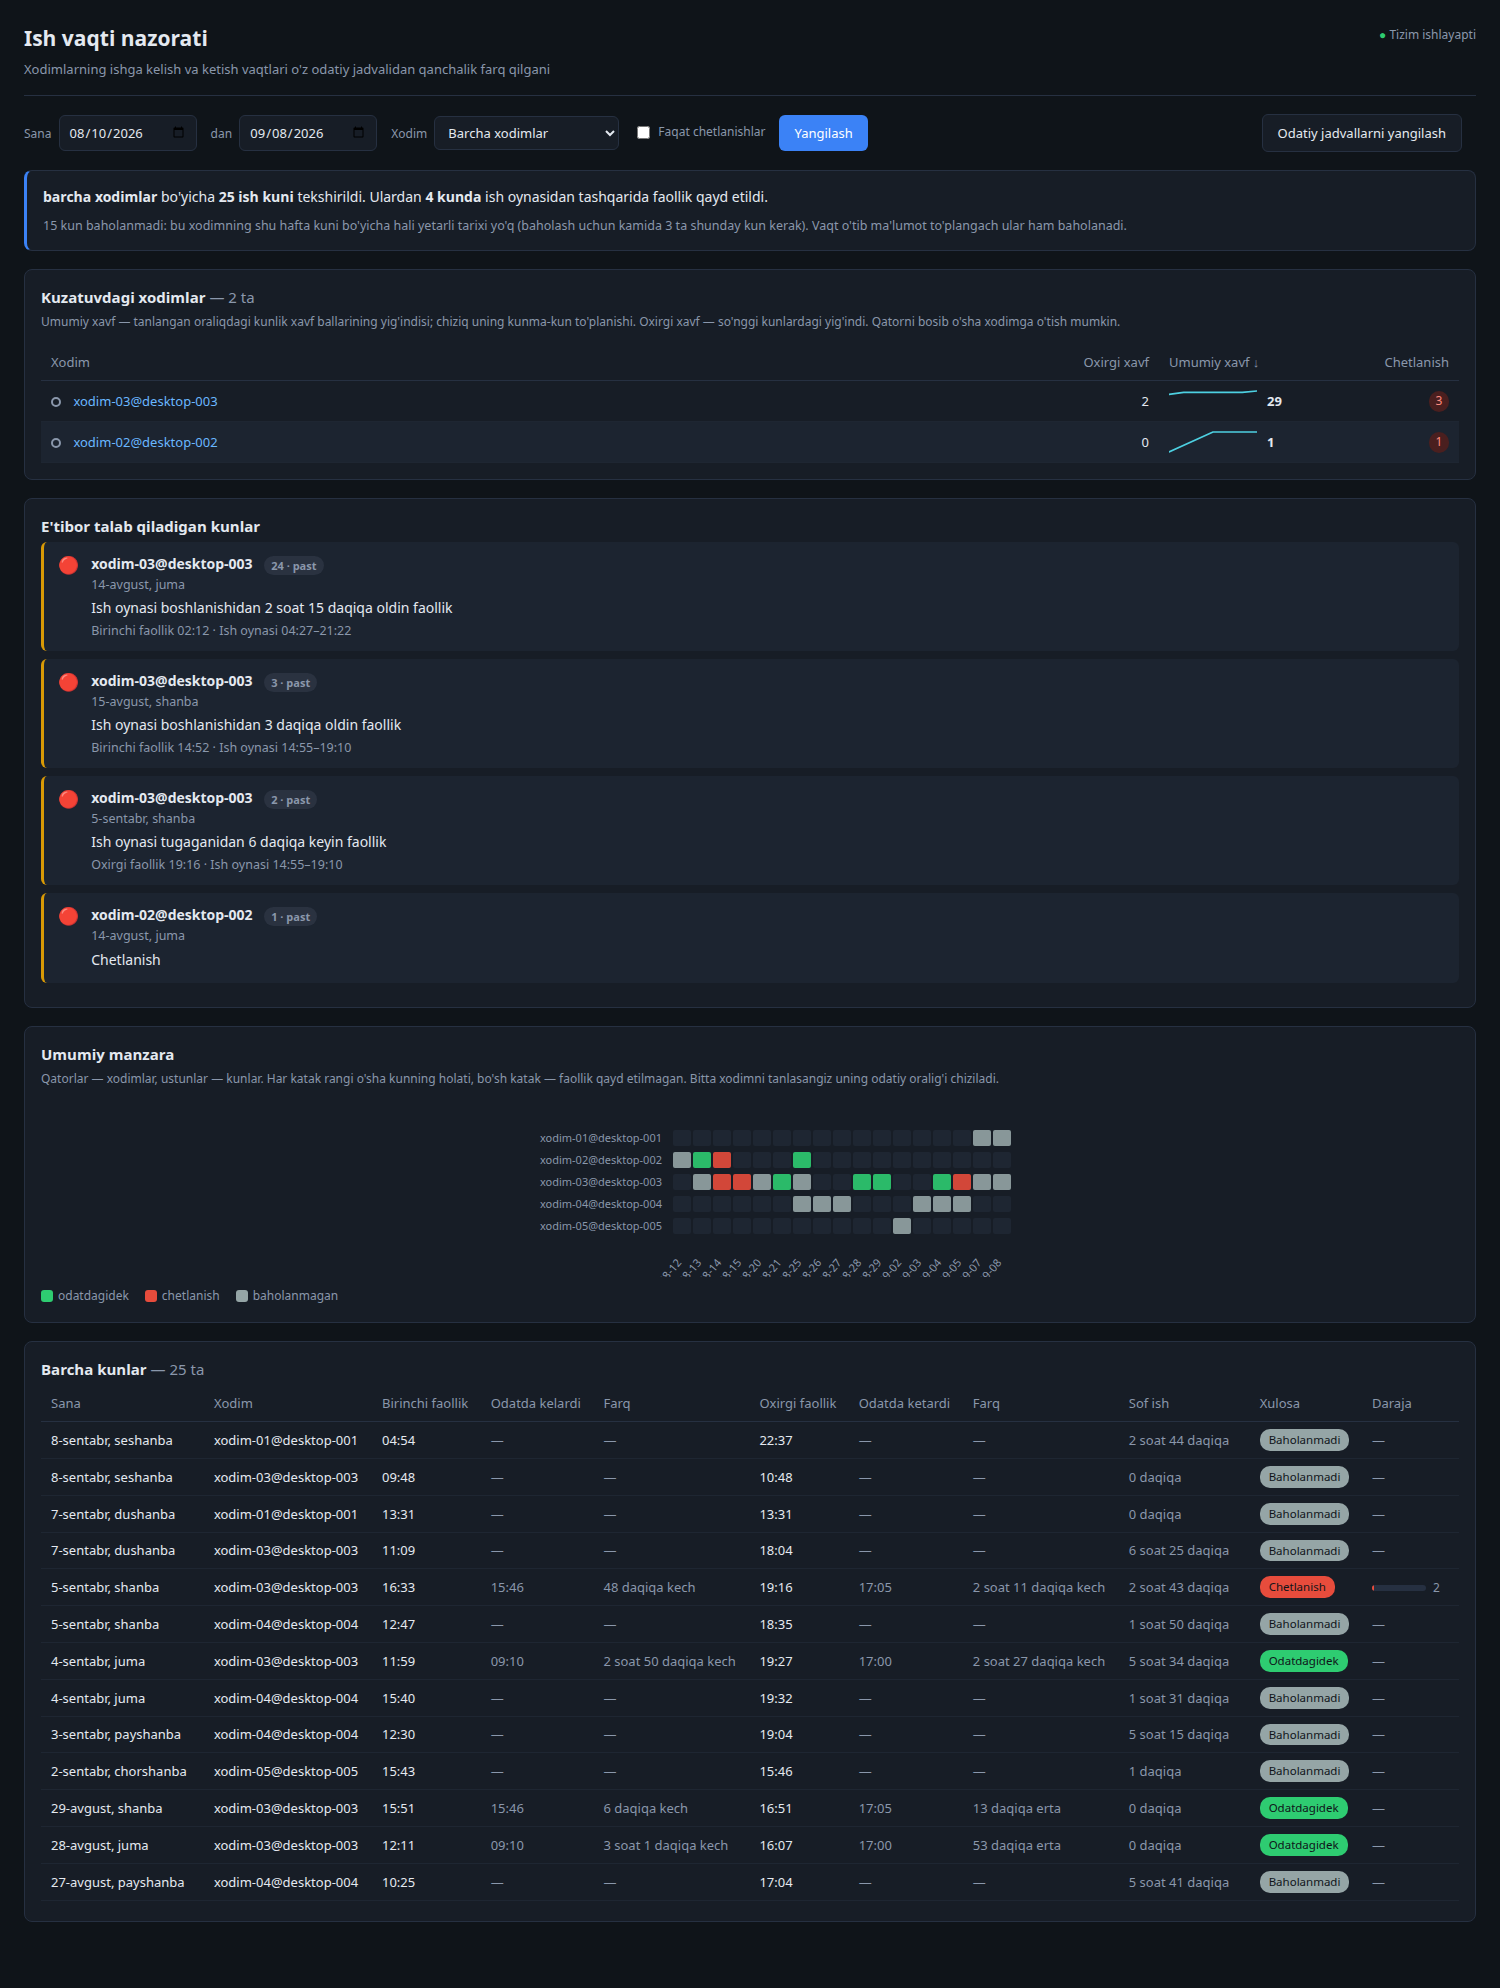
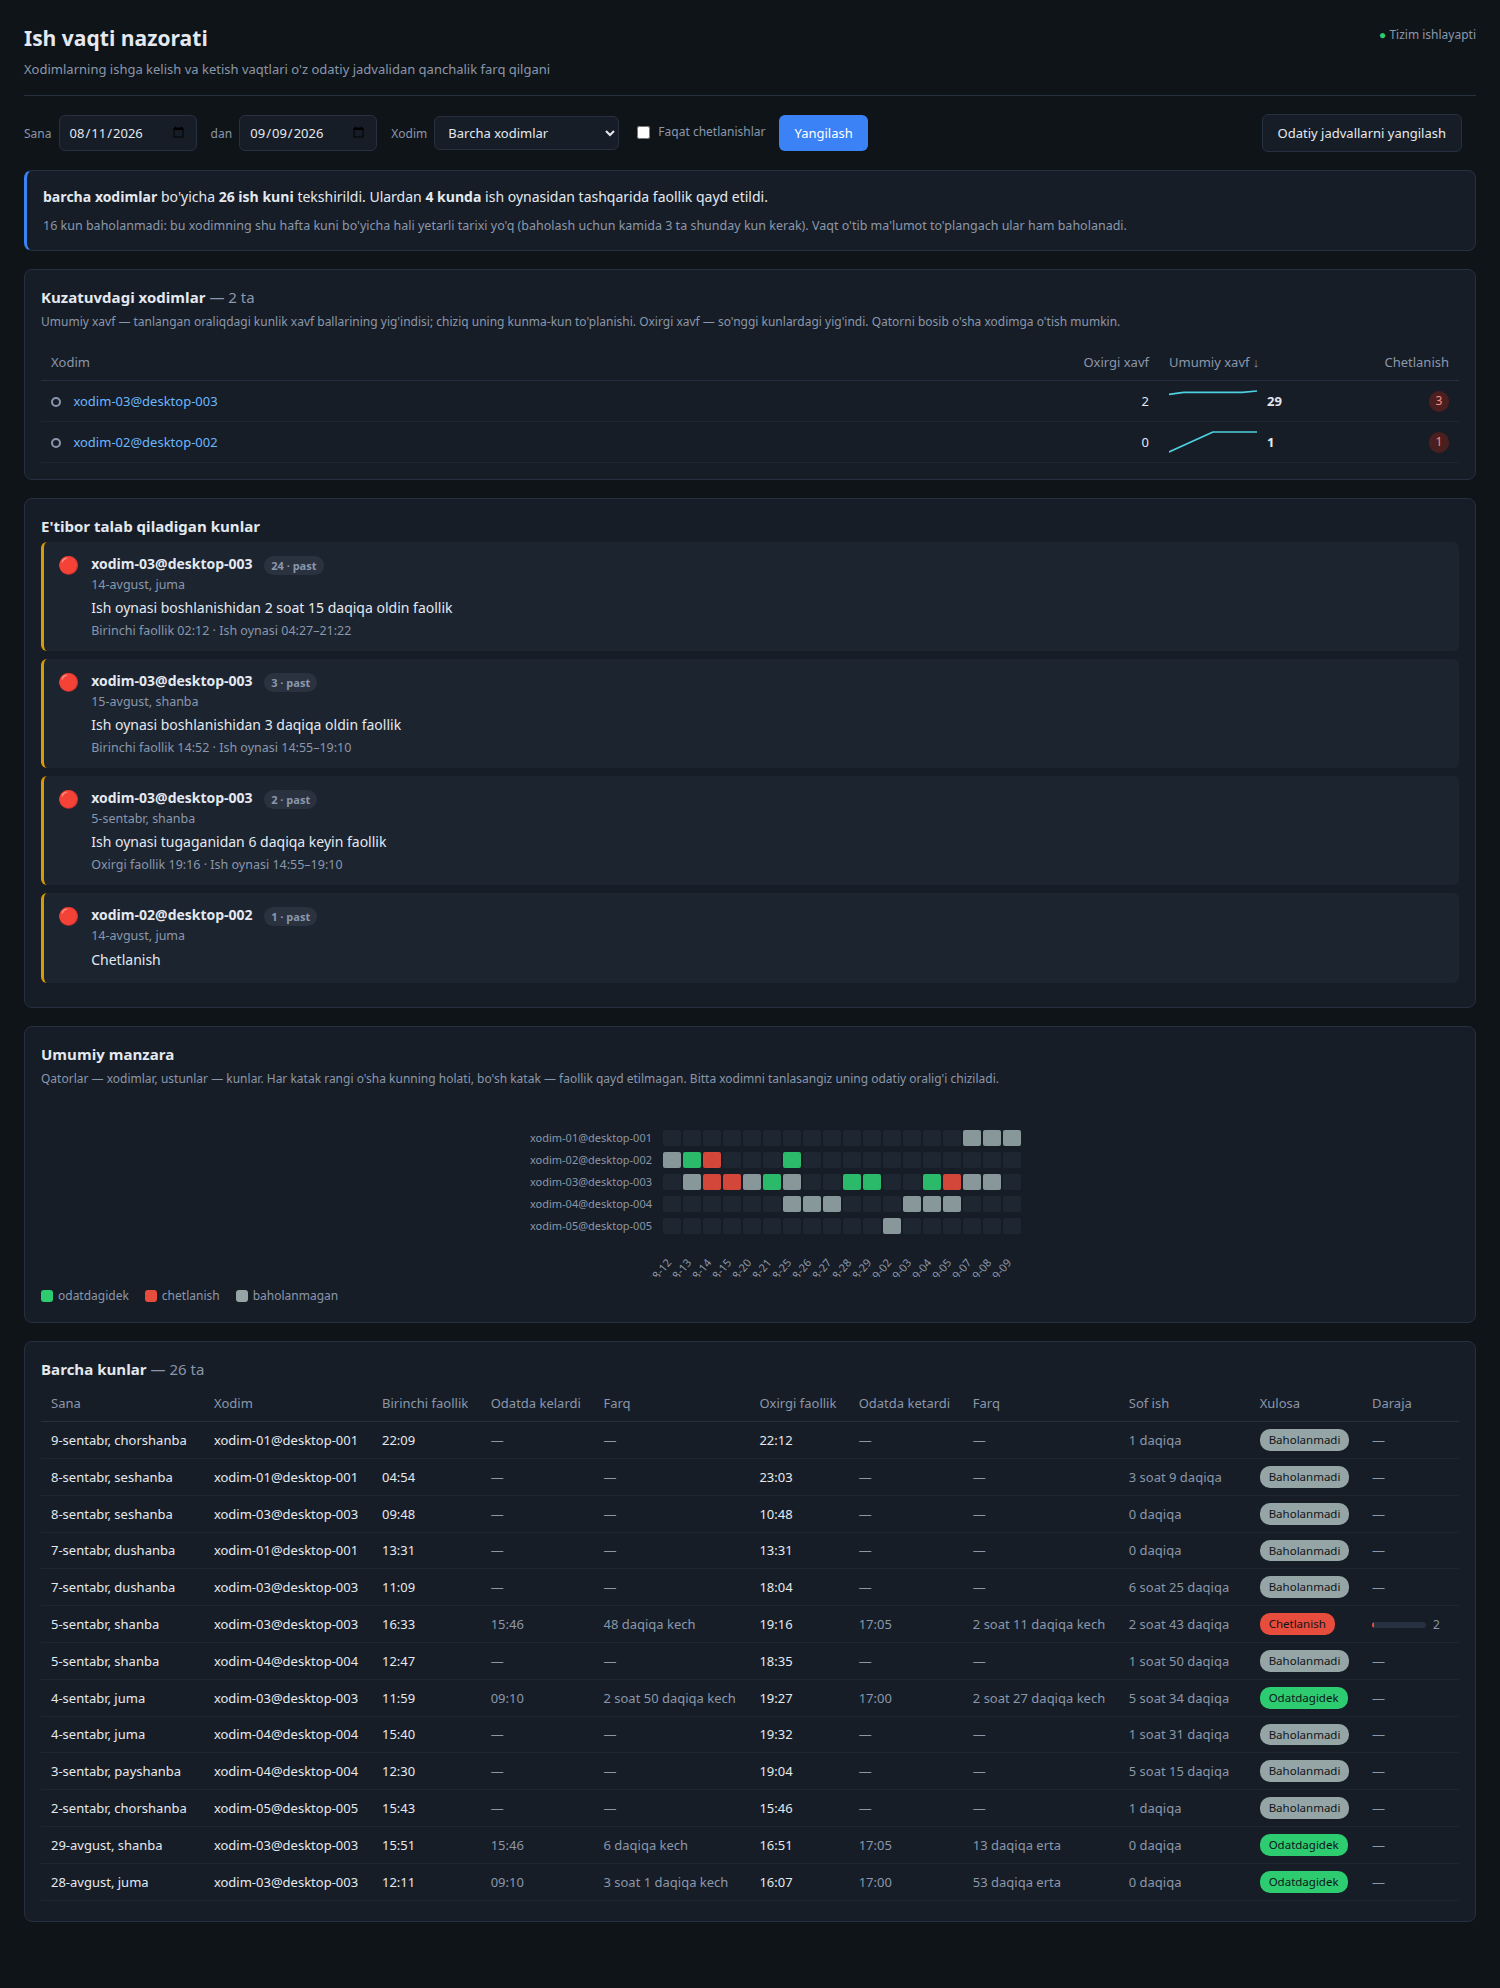
CHART-01: grafik X o'qi to'liq kalendarga o'tkazildi
Foydalanuvchi grafikda ba'zi kunlar yo'qligini payqadi. Sabab: o'sha
kunlari manbada bitta ham hodisa bo'lmagan, shuning uchun ular `results`
ga umuman tushmagan. Bu kutilgan xatti-harakat.

Lekin tekshirish paytida haqiqiy kamchilik ochildi: X o'qi "ma'lumot bor
kunlar ketma-ketligi" edi, kalendar emas. Natijada 08-15 va 08-20
yonma-yon turardi, garchi orada to'rt kun bo'lsa ham — masofa yolg'on
ko'rsatilardi.

Endi har kalendar kuni o'z ustuniga ega. Ma'lumotsiz kun bo'sh qoladi,
pastda ingichka belgi turadi va legendaga "faollik qayd etilmagan"
qo'shildi. Bo'shliqning o'zi ma'lumot: xodim ta'tilda, kompyuter o'chiq,
yoki agent ishlamayapti.

Demo ma'lumotda 30 kunning 18 tasi shunday — ilgari bu butunlay
ko'rinmasdi.

Yo'l-yo'lakay: 400 kunlik cheklov boshidan kesardi, ya'ni ikki yillik
oraliqda eng yangi kunlar tushib qolardi (sinovda nuqta=0 chiqdi).
Endi oxiridan kesiladi. Uch xil oraliqda tekshirildi: 30, 90 va 617 kun —
uchalasida ham barcha nuqtalar joyida.

Nuqta radiusi ustun kengligiga moslashadi, aks holda tor ustunlarda
nuqtalar bir-birining ustiga chiqib ketardi.

diff --git a/dashboard/static/script.js b/dashboard/static/script.js
@@ -430,12 +430,13 @@ function renderChart(visible) {
     $('chartHint').textContent = 'X o\'qi — kunlar, Y o\'qi — sutka soatlari. '
       + 'Kulrang fon — shu kunning ish oynasi. Ikkita nuqta — birinchi va oxirgi '
       + 'faollik: oynadan tashqarida bo\'lsa qizil, ichida bo\'lsa yashil. '
-      + 'Oyna ichidagi faollik shubhali sanalmaydi.';
+      + 'Bo\'sh ustun — o\'sha kuni manbada faollik umuman qayd etilmagan.';
     $('chartLegend').innerHTML = `
       <span><i style="background:#8a97ab;opacity:.5"></i> ish oynasi</span>
       <span><i style="background:#2ecc71;border-radius:50%"></i> oyna ichida</span>
       <span><i style="background:#e74c3c;border-radius:50%"></i> oynadan tashqarida</span>
-      <span><i style="background:#95a5a6;border-radius:50%"></i> baholanmadi</span>`;
+      <span><i style="background:#95a5a6;border-radius:50%"></i> baholanmadi</span>
+      <span><i style="background:#3a4657"></i> faollik qayd etilmagan</span>`;
     drawBaselineChart(svg, visible);
   } else {
     $('chartTitle').textContent = 'Umumiy manzara';
@@ -507,10 +508,44 @@ function drawMatrix(svg, visible) {
  *  `|z| <= chegara` aynan "mean ± chegara·std oralig'ida" degani, shuning uchun
  *  nuqta rangi kulrang zonaga to'liq mos keladi — ziddiyat bo'lishi mumkin emas.
  */
-function drawBaselineChart(svg, visible) {
-  const days = [...visible].sort((a, b) => a.date.localeCompare(b.date));
+/** Chizish uchun kunlar ro'yxati: tanlangan oraliqdagi HAR BIR kalendar kuni.
+ *
+ *  Qaytaradi `[{date, row}]` — `row` null bo'lsa o'sha kuni ma'lumot yo'q.
+ *  Oraliq filtrlardan olinadi; ular bo'sh bo'lsa ma'lumotning o'z chegarasi.
+ */
+function kalendarKunlari(bor) {
+  const sanalar = [...bor.keys()].sort();
+  const boshi = $('from').value || sanalar[0];
+  const oxiri = $('to').value || sanalar[sanalar.length - 1];
+  if (!boshi || !oxiri) return [];
 
-  const colW = Math.max(18, Math.min(46, Math.floor(900 / Math.max(1, days.length))));
+  const MAX = 400;   // undan ortig'i grafikda o'qilmay qoladi
+  const out = [];
+  const d = new Date(boshi + 'T12:00:00');
+  const son = new Date(oxiri + 'T12:00:00');
+  while (d <= son) {
+    const sana = d.toISOString().slice(0, 10);
+    out.push({ date: sana, row: bor.get(sana) || null });
+    d.setDate(d.getDate() + 1);
+  }
+  // Cheklov OXIRIDAN olinadi: uzoq oraliqda eng yangi kunlar kerak.
+  // Boshidan kessak, 2 yillik oraliqda bugungi ma'lumot tushib qolardi.
+  return out.length > MAX ? out.slice(-MAX) : out;
+}
+
+function drawBaselineChart(svg, visible) {
+  // X o'qi — TO'LIQ kalendar, faqat ma'lumot bor kunlar emas.
+  //
+  // Ilgari bu yerda `visible` ning o'zi ishlatilardi va o'q "ma'lumot bor
+  // kunlar ketma-ketligi" bo'lib qolardi: 08-15 va 08-20 yonma-yon turib,
+  // orada 4 kun borligi ko'rinmasdi. Endi har kalendar kuni o'z ustuniga
+  // ega — ma'lumotsiz kun bo'sh joy sifatida ko'rinadi. Bo'shliqning o'zi
+  // ma'lumot: agent hech narsa yubormagan (ta'til, o'chirilgan kompyuter,
+  // agent ishlamayapti).
+  const bor = new Map([...visible].map((r) => [r.date, r]));
+  const days = kalendarKunlari(bor);
+
+  const colW = Math.max(9, Math.min(46, Math.floor(900 / Math.max(1, days.length))));
   const pad = { l: 54, r: 16, t: 12, b: 58 };
   const W = Math.max(560, pad.l + pad.r + colW * days.length);
   const H = 420;
@@ -534,13 +569,26 @@ function drawBaselineChart(svg, visible) {
   const labelStep = Math.ceil(days.length / 26);
   const bw = Math.min(28, colW * 0.72);
 
-  days.forEach((r, i) => {
+  days.forEach((kun, i) => {
     if (i % labelStep === 0) {
       const ly = H - pad.b + 18;
       svg.appendChild(el('text', {
         x: cx(i), y: ly, 'text-anchor': 'end',
         transform: `rotate(-50 ${cx(i)} ${ly})`,
-      }, r.date.slice(5)));
+      }, kun.date.slice(5)));
+    }
+
+    const r = kun.row;
+    if (!r) {
+      // Ma'lumotsiz kun: manbada bitta ham hodisa bo'lmagan. Ustun bo'sh
+      // qoladi, faqat pastda ingichka belgi — bo'shliq ko'rinib tursin.
+      const tick = el('rect', {
+        x: cx(i) - 1, y: pad.t + plotH - 3, width: 2, height: 3,
+        fill: '#3a4657',
+      });
+      tick.appendChild(el('title', {}, `${kun.date}\nFaollik qayd etilmagan`));
+      svg.appendChild(tick);
+      return;
     }
 
     const w = windowOf(r);          // {lo, hi} yoki null
@@ -570,7 +618,7 @@ function drawBaselineChart(svg, visible) {
       const mins = hhmmssToMinutes(m.time);
       const outside = w && (mins < w.lo || mins > w.hi);
       const dot = el('circle', {
-        cx: cx(i), cy: y(mins), r: 4,
+        cx: cx(i), cy: y(mins), r: Math.max(2.5, Math.min(4, colW * 0.22)),
         fill: !w ? '#95a5a6' : (outside ? '#e74c3c' : '#2ecc71'),
         stroke: '#0f1419', 'stroke-width': 1,
       });

diff --git a/README.md b/README.md
@@ -917,6 +917,23 @@ Y o'qi   sutka soatlari 00:00 (past) → 24:00 (tepa)
 | **yashil nuqta** | faollik oyna **ichida** |
 | **qizil nuqta** | faollik oynadan **tashqarida** |
 | **kulrang nuqta** | baseline yo'q, baholab bo'lmadi |
+| **bo'sh ustun** | o'sha kuni manbada faollik umuman qayd etilmagan |
+
+#### X o'qi — to'liq kalendar
+
+Har bir kalendar kuni o'z ustuniga ega, ma'lumot bor-yo'qligidan qat'i
+nazar. Ma'lumotsiz kun bo'sh qoladi, pastda ingichka belgi turadi.
+
+Bu muhim: **bo'shliqning o'zi ma'lumot.** Uzoq bo'shliq — xodim ta'tilda,
+kompyuter o'chiq, yoki agent ishlamayapti degani.
+
+> Ilgari o'q faqat ma'lumot bor kunlardan iborat edi va bu **chalg'itardi**:
+> `08-15` bilan `08-20` yonma-yon turib, orada to'rt kun borligi
+> ko'rinmasdi. Endi masofa haqiqiy.
+
+Oraliq `from`/`to` filtrlaridan olinadi. 400 kundan uzun bo'lsa **oxirgi**
+400 kun ko'rsatiladi — uzoq oraliqda eng yangi ma'lumot kerak, boshidan
+kessak bugungi kun tushib qolardi.
 
 Har kunda ikkita nuqta: birinchi va oxirgi faollik. Rang **har nuqta uchun
 alohida** — bir kunda kelish yashil, ketish qizil bo'lishi mumkin.
